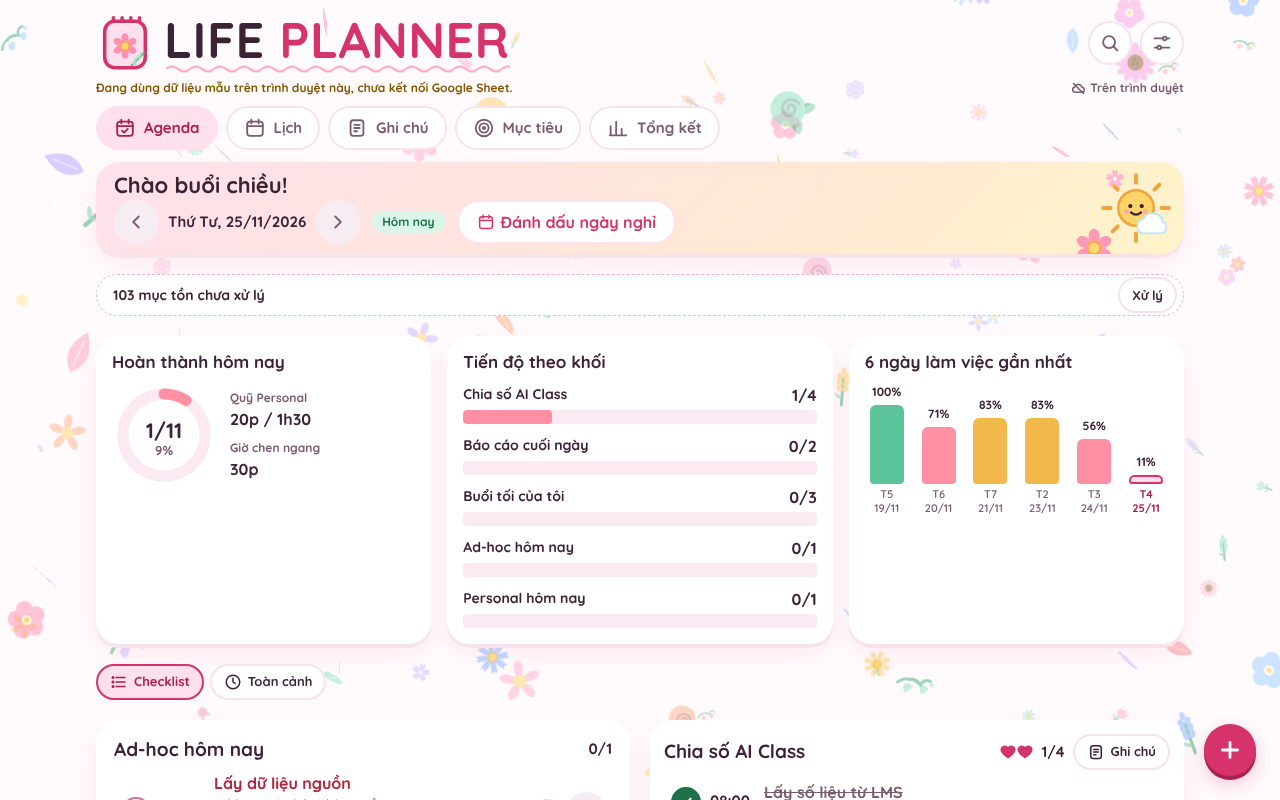
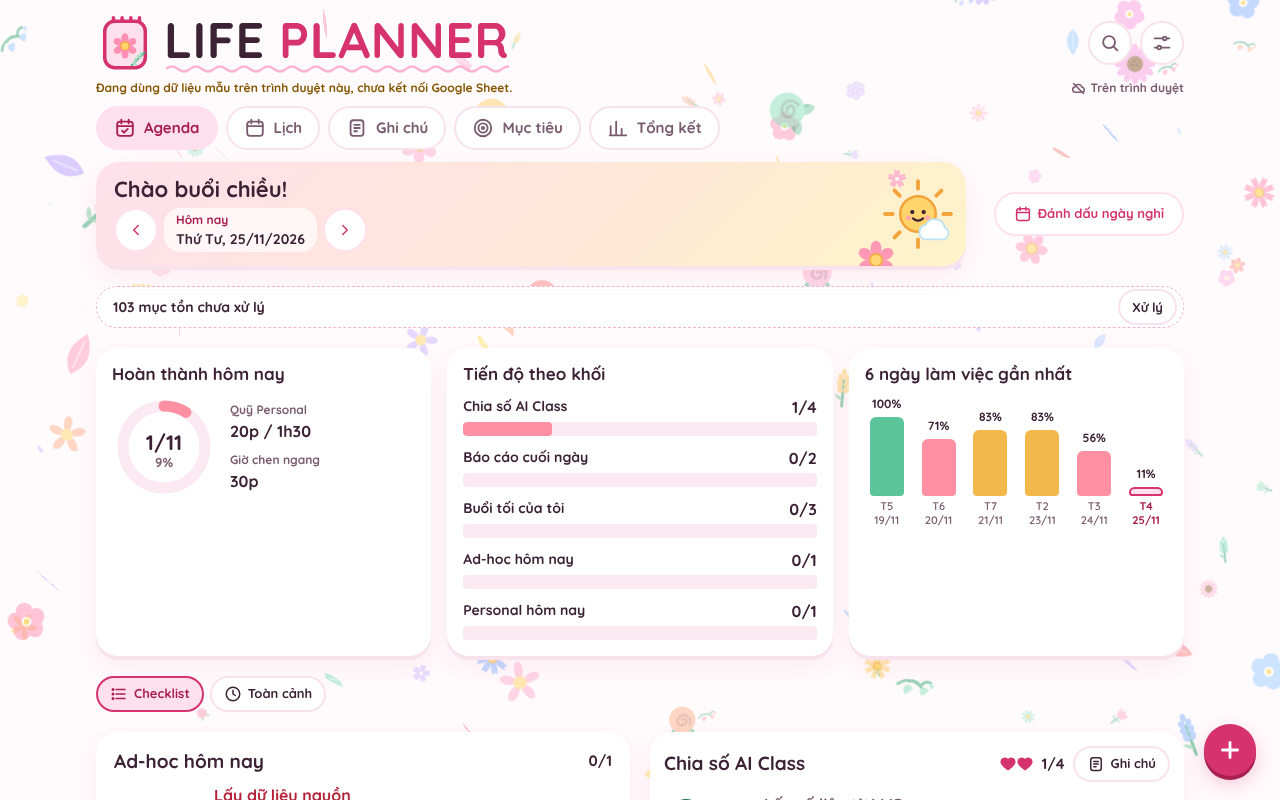
V2 phần 6: khung chào Agenda gọn như web cũ (nút ngày tròn, nhãn Hôm nay + ngày), công cụ ra ngoài khung
Claude-Session: https://claude.ai/code/session_0149sgxtJqjnDkquQg9Zcj1E

diff --git a/src/v2/js/views/agenda.js b/src/v2/js/views/agenda.js
@@ -141,20 +141,21 @@ LP.agenda = (function () {
   /* ---------- Đầu trang ---------- */
   function headHtml() {
     var d = st.date, t = D.today(), pills = '';
-    pills += d === t ? pill('Hôm nay', 'ok') : d < t ? pill('Đã qua · chỉ xem', 'plain') : pill('Sắp tới', 'note');
+    if (d < t) pills += pill('Đã qua · chỉ xem', 'plain'); else if (d > t) pills += pill('Sắp tới', 'note');
     if (D.isDayOff(d)) pills += pill('Ngày nghỉ', 'missed'); else if (D.dow(d) === 7) pills += pill('Chủ nhật', 'plain');
     var tools = '';
     if (d !== t) tools += '<button type="button" class="chip" data-act="today">Về hôm nay</button>';
     if (!readOnly()) tools += '<button type="button" class="btn btn-soft" data-act="off">' + icon('calendar', 'ic18') + (D.isDayOff(d) ? 'Bỏ đánh dấu ngày nghỉ' : 'Đánh dấu ngày nghỉ') + '</button>';
     var h = parseInt(D.now().slice(0, 2), 10);
     var hello = d !== t ? 'Agenda' : h < 11 ? 'Chào buổi sáng!' : h < 13 ? 'Chào buổi trưa!' : h < 18 ? 'Chào buổi chiều!' : 'Chào buổi tối!';
+    var rel = d === t ? 'Hôm nay' : d === D.add(t, -1) ? 'Hôm qua' : d === D.add(t, 1) ? 'Ngày mai' : d < t ? 'Ngày đã qua' : 'Ngày sắp tới';
     var fl = LP.flowers.html;
     return '<div class="ag-head"><section class="ag-hello" aria-label="Chào">' + helloArt(d === t ? h : 8) + fl('daisy', 44, 2, 'ag-hello-f1') + fl('sakura', 26, 8, 'ag-hello-f2') +
-      '<h1>' + hello + '</h1><div class="ag-hrow"><div class="ag-date">' +
-      '<button type="button" class="icon-btn" data-act="prev" aria-label="Ngày trước">' + icon('back') + '</button>' +
-      '<span class="ag-daylabel">' + esc(dateLabel(d)) + '</span>' +
-      '<button type="button" class="icon-btn" data-act="next" aria-label="Ngày sau">' + icon('back', 'ag-flip') + '</button></div>' +
-      '<div class="ag-pills">' + pills + '</div><div class="ag-tools">' + tools + '</div></div></section></div>';
+      '<h1>' + hello + '</h1><div class="ag-date" role="group" aria-label="Chọn ngày xem">' +
+      '<button type="button" class="ag-daybtn" data-act="prev" aria-label="Ngày trước">' + icon('back', 'ic18') + '</button>' +
+      '<span class="ag-daypick"><span class="ag-dayrel">' + rel + '</span><span class="ag-daylabel">' + esc(dateLabel(d)) + '</span></span>' +
+      '<button type="button" class="ag-daybtn" data-act="next" aria-label="Ngày sau">' + icon('back', 'ic18 ag-flip') + '</button></div></section>' +
+      (pills || tools ? '<div class="ag-sub"><div class="ag-pills">' + pills + '</div><div class="ag-tools">' + tools + '</div></div>' : '') + '</div>';
   }
 
   /* ---------- Dải 3 biểu đồ ---------- */

diff --git a/src/v2/css/agenda.css b/src/v2/css/agenda.css
@@ -3,13 +3,15 @@
 .ag>*{min-width:0}
 
 /* Đầu trang: ngày, ‹ ›, nhãn, công cụ */
-.ag-head{display:flex;flex-wrap:wrap;align-items:center;gap:8px 12px}
-.ag-date{display:flex;align-items:center;gap:4px;min-width:0}
-.ag-daylabel{min-width:0;font-weight:700;font-size:15px;padding:0 6px;overflow-wrap:anywhere}
-.ag-hello{position:relative;flex:1 1 100%;overflow:hidden;border-radius:24px;padding:10px 96px 10px 18px;background:linear-gradient(135deg,var(--hello-1) 0%,var(--hello-2) 60%,var(--hello-3) 100%);box-shadow:var(--shadow)}
-.ag-hello h1{margin:0 0 2px;font-size:22px;font-weight:700}
-.ag-hrow{position:relative;z-index:1;display:flex;flex-wrap:wrap;align-items:center;gap:6px 12px}
-.ag-hrow .ag-tools{margin-left:0}
+.ag-head{display:flex;flex-wrap:wrap;align-items:center;gap:10px 16px}
+.ag-sub{flex:0 1 auto;margin-left:auto;display:flex;flex-wrap:wrap;align-items:center;gap:8px 12px}
+.ag-date{position:relative;z-index:1;display:flex;flex-wrap:nowrap;align-items:center;gap:6px;min-width:0}
+.ag-hello{flex:1 1 420px;position:relative;overflow:hidden;border-radius:24px;padding:14px 96px 14px 18px;background:linear-gradient(135deg,var(--hello-1) 0%,var(--hello-2) 60%,var(--hello-3) 100%);box-shadow:var(--shadow)}
+.ag-hello h1{margin:0 0 6px;font-size:22px;font-weight:700}
+.ag-daybtn{display:inline-flex;align-items:center;justify-content:center;width:44px;height:44px;border-radius:99px;border:2px solid var(--accent-soft);background:var(--surface);color:var(--accent)}
+.ag-daypick{display:flex;flex-direction:column;min-height:44px;justify-content:center;padding:2px 12px;border-radius:16px;background:color-mix(in srgb,var(--surface) 70%,transparent)}
+.ag-dayrel{font-size:12px;font-weight:700;color:var(--accent-deep)}
+.ag-daylabel{font-size:14px;font-weight:700}
 .ag-hello .ag-sun{position:absolute;right:10px;top:50%;transform:translateY(-50%)}
 .ag-hello .ag-hello-f1{position:absolute;right:68px;bottom:-16px;opacity:.9}
 .ag-hello .ag-hello-f2{position:absolute;right:56px;top:4px;opacity:.9}
@@ -196,3 +198,5 @@
 .ag-tt-line .ag-sub{font-size:13px}
 .ag-tt-btns{display:flex;gap:4px;flex:none;flex-wrap:wrap;margin-left:auto;padding-bottom:4px}
 .ag-tt-b{min-height:36px;padding:2px 10px;font-size:13px;border-width:1.5px}
+.ag-daylabel{white-space:nowrap}
+@media (max-width:430px){.ag-hello{padding-right:76px}.ag-hello .ag-sun{width:60px;height:60px;right:8px}.ag-daypick{padding:2px 8px}}
